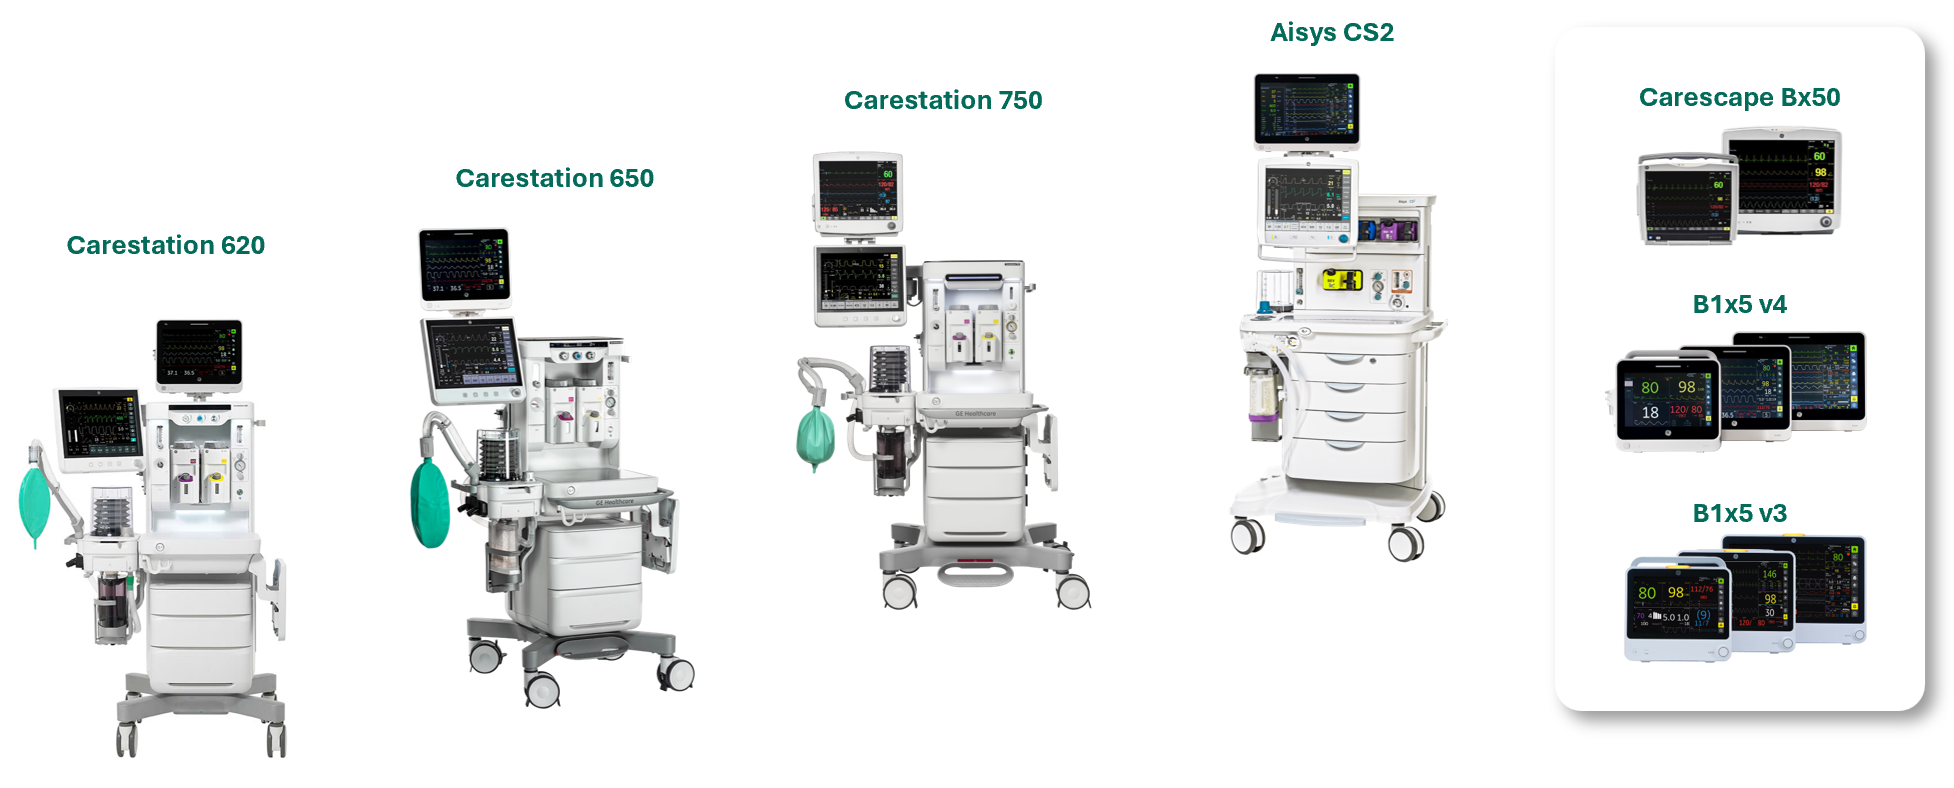
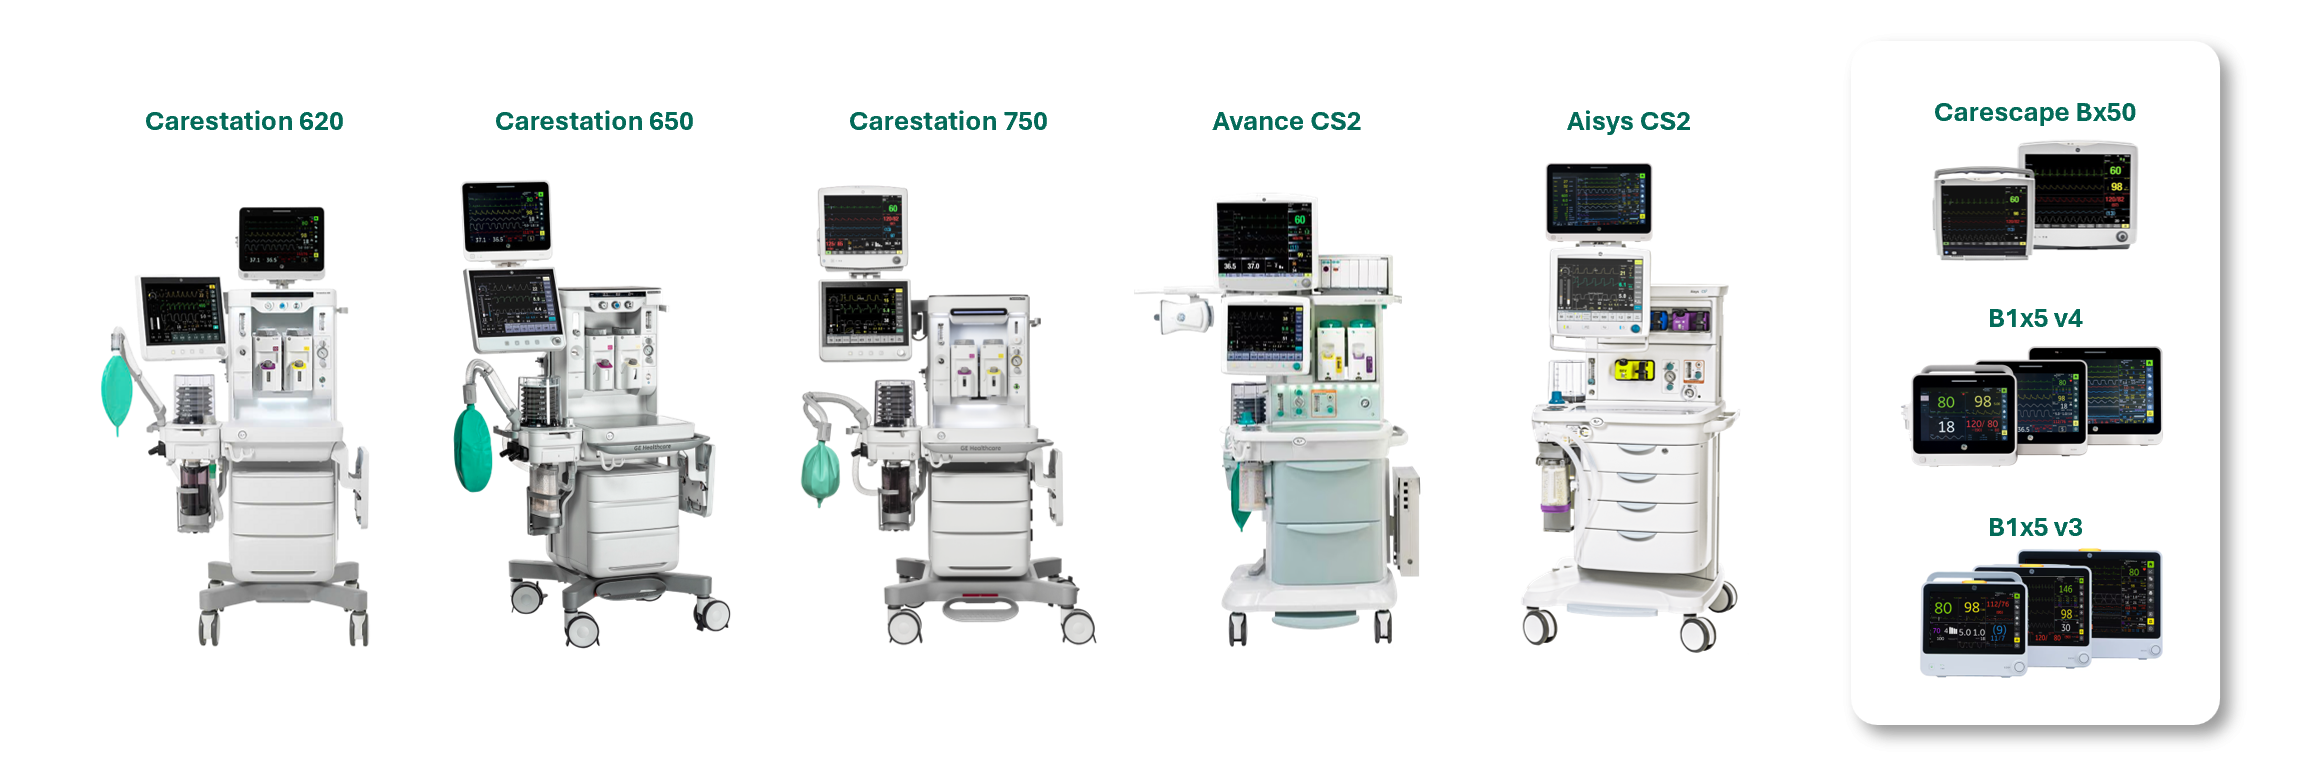
Update landing page

diff --git a/index.html b/index.html
@@ -235,11 +235,11 @@
             <div class="grid md:grid-cols-2 gap-8 text-left max-w-4xl mx-auto">
                 <div class="bg-emerald-50/50 p-6 rounded-2xl border-l-4 border-primary shadow-sm">
                     <h6 class="font-bold text-primary mb-2 uppercase text-xs tracking-wider">Máy Gây Mê</h6>
-                    <p class="font-medium text-gray-800">Carestation 600 series (620/650), Carestation 750, Aisys CS2</p>
+                    <p class="font-medium text-gray-800">Carestation 600 series (620/650), Carestation 750, Avance CS2, Aisys CS2</p>
                 </div>
                 <div class="bg-emerald-50/50 p-6 rounded-2xl border-l-4 border-primary shadow-sm">
-                    <h6 class="font-bold text-primary mb-2 uppercase text-xs tracking-wider">Monitor Theo Dõi</h6>
-                    <p class="font-medium text-gray-800">Bx50, B1x5 v3/v4</p>
+                    <h6 class="font-bold text-primary mb-2 uppercase text-xs tracking-wider">Monitor Theo Dõi Bệnh Nhân</h6>
+                    <p class="font-medium text-gray-800">Carescape Bx50, B1x5 v3/v4</p>
                 </div>
             </div>
         </div>
